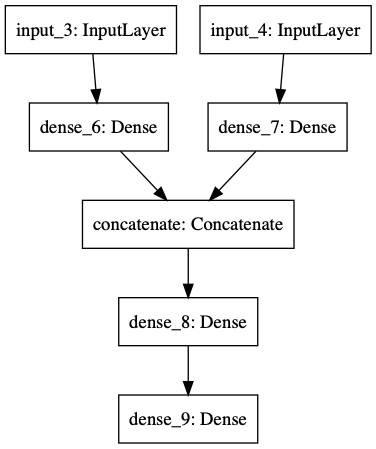
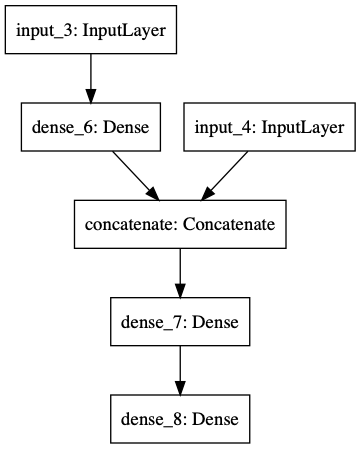
update README, linear output layer, gamma=0.95

diff --git a/MountainCarContinuous.py b/MountainCarContinuous.py
@@ -23,7 +23,7 @@ rpm = ReplayBuffer.ReplayBuffer(1000000) # 1M history
 class OrnsteinUhlenbeckProcess(object):
     """ Ornstein-Uhlenbeck Noise (original code by @slowbull)
     """
-    def __init__(self, theta=0.15, mu=0, sigma=1, x0=0, dt=1e-2, n_steps_annealing=750, size=1):
+    def __init__(self, theta=0.15, mu=0, sigma=1, x0=0, dt=1e-2, n_steps_annealing=250, size=1):
         self.theta = theta
         self.sigma = sigma
         self.n_steps_annealing = n_steps_annealing
@@ -51,7 +51,7 @@ def replace_weights(tau=0.01):
     actorNet_target.model.set_weights(theta_a_targ)
     criticNet_target.model.set_weights(theta_c_targ)
 
-def train(verbose=1, batch_size=32, gamma=0.99):
+def train(verbose=1, batch_size=64, gamma=0.95):
     # ak je dostatok vzorov k uceniu
     if (len(rpm) > batch_size):        
         [s1, a1, r, s2, done] = rpm.sample(batch_size)
@@ -91,7 +91,7 @@ def main():
     replace_weights(tau=1.)
 
     # interacia epizod
-    for episode in range(1000):
+    for episode in range(500):
         # stav z hry
         state = env.reset()
         state = np.reshape(state, (1, env.observation_space.shape[0]))
@@ -133,9 +133,10 @@ def main():
 
             # koniec epizody, uspesne dorazil do ciela
             if done: 
-                print("Episode finished after {} timesteps".format(step+1))
+                print("Episode finished after {} timesteps\n".format(step+1))
                 break
 
+            # musi sa ucit za kazdou iteraciou   
             verbose = 1 if step == 1 else 0    
             train(verbose)
 

diff --git a/Critic.py b/Critic.py
@@ -10,17 +10,18 @@ class Critic:
     def __init__(self, state_shape, action_shape):
         # vstupna vsrtva pre state
         state_input = Input(shape=state_shape)
-        state_h1 = Dense(128, activation='elu', use_bias=True, kernel_initializer='he_uniform', bias_initializer='he_uniform')(state_input)
+        state_h1 = Dense(24, activation='elu', use_bias=True, kernel_initializer='he_uniform')(state_input)
 
         # vstupna vrstva pre action
         action_input = Input(shape=action_shape)
 
         # equivalent to added = keras.layers.add([x1, x2])
         merged = Concatenate()([state_h1, action_input])
-        merged_h1 = Dense(64, activation='elu', use_bias=True, kernel_initializer='he_uniform', bias_initializer='he_uniform')(merged)
+        merged_h1 = Dense(48, activation='elu', use_bias=True, kernel_initializer='he_uniform')(merged)
+        merged_h2 = Dense(24, activation='elu', use_bias=True, kernel_initializer='he_uniform')(merged_h1)
 
-        # vystupna vrstva
-        output = Dense(1, activation='elu', use_bias=True, kernel_initializer='he_uniform', bias_initializer='zeros')(merged_h1)
+        # vystupna vrstva   -- musi byt linear ako posledna vrstva pre regresiu Q funkcie (-nekonecno, nekonecno)!!!
+        output = Dense(1, activation='linear', use_bias=True, kernel_initializer='he_uniform')(merged_h2)
 
         # Vytvor a skompiluj model
         self.model = Model(inputs=[state_input, action_input], outputs=output)

diff --git a/Actor.py b/Actor.py
@@ -9,11 +9,12 @@ class Actor:
 
     def __init__(self, state_space):
         state_input = Input(shape=state_space)
-        i = Dense(128, activation='elu', use_bias=True, kernel_initializer='he_uniform', bias_initializer='he_uniform')(state_input)
-        i = Dense(64, activation='elu', use_bias=True, kernel_initializer='he_uniform', bias_initializer='he_uniform')(i)
+        i = Dense(24, activation='elu', use_bias=True, kernel_initializer='he_uniform')(state_input)
+        i = Dense(48, activation='elu', use_bias=True, kernel_initializer='he_uniform')(i)
+        i = Dense(24, activation='elu', use_bias=True, kernel_initializer='he_uniform')(i)
         
-        # vystupna vrstva
-        out = Dense(1, activation='tanh', use_bias=True, kernel_initializer='glorot_uniform', bias_initializer='zeros')(i)
+        # vystupna vrstva   -- musi byt tanh pre (-1,1) ako posledna vrstva!!!
+        out = Dense(1, activation='tanh', use_bias=True, kernel_initializer='glorot_uniform')(i)
 
         # Vytvor model
         self.model = Model(inputs=state_input, outputs=out)

diff --git a/README.md b/README.md
@@ -2,17 +2,40 @@
 
 ## Theory
 
-**Agent** is using DDPG algorithm to predict continuous actions in continuous state space. It has two networks: Actor and Critic.
+&emsp;**Agent** is using DDPG algorithm to predict continuous actions in continuous state space. It has two networks: Actor and Critic.
+
+https://towardsdatascience.com/reinforcement-learning-w-keras-openai-actor-critic-models-f084612cfd69
+<br><br>
+https://towardsdatascience.com/hyper-parameters-in-action-part-ii-weight-initializers-35aee1a28404
+<br><br>
+https://spinningup.openai.com/en/latest/algorithms/ddpg.html
+
+
+## Inputs/Outputs
+
+&emsp;The Actor network has 2 inputs from game: position, velocity. The output layer consists from fully-connected 'tanh()' layer for doing actions in range (-1.0, 1.0): force. Hidden layers are using Exponential linear unit (ELU) function.
+
+&emsp;The Critic network has 2 inputs from game (states) and 1 input from Actor network (action). The main function of this network is estimate quality of the action[t] in the state[t] and use it to change gradient of Actor network by equation: 
 
     grad_J = (dQ / daction) * (daction / dA)
 
-    grad_J ->  policy gradient
-    Q      ->  Q value from Critic net on (state, action) pair
-    action ->  deterministic policy predicated by Actor
+    grad_J ->  policy gradient,
+    Q      ->  Q value from Critic net on (state, action) pair,
+    action ->  deterministic policy predicated by Actor,
     A      ->  Actor's weights
 
-**Framework:** Keras, Tensorflow 2.0
+The Critic network is trained by Bellman equation:
+    
+    Q_target = reward + (1-done) * gamma * Q_next_state
+
+    Q_target       ->  Q value to be trained,
+    reward         ->  reward from game for action in state,
+    gamma          ->  discount factor,
+    Q_next_state   ->  quality of action in next state 
+    done           ->  1, if it's terminal state or 0 in non-terminal state
+
+**Framework:** Tensorflow 2.0
 </br>
-**Languages:** Python 3, 
+**Languages:** Python 3 
 </br>
 **Author**: Martin Kubovcik
